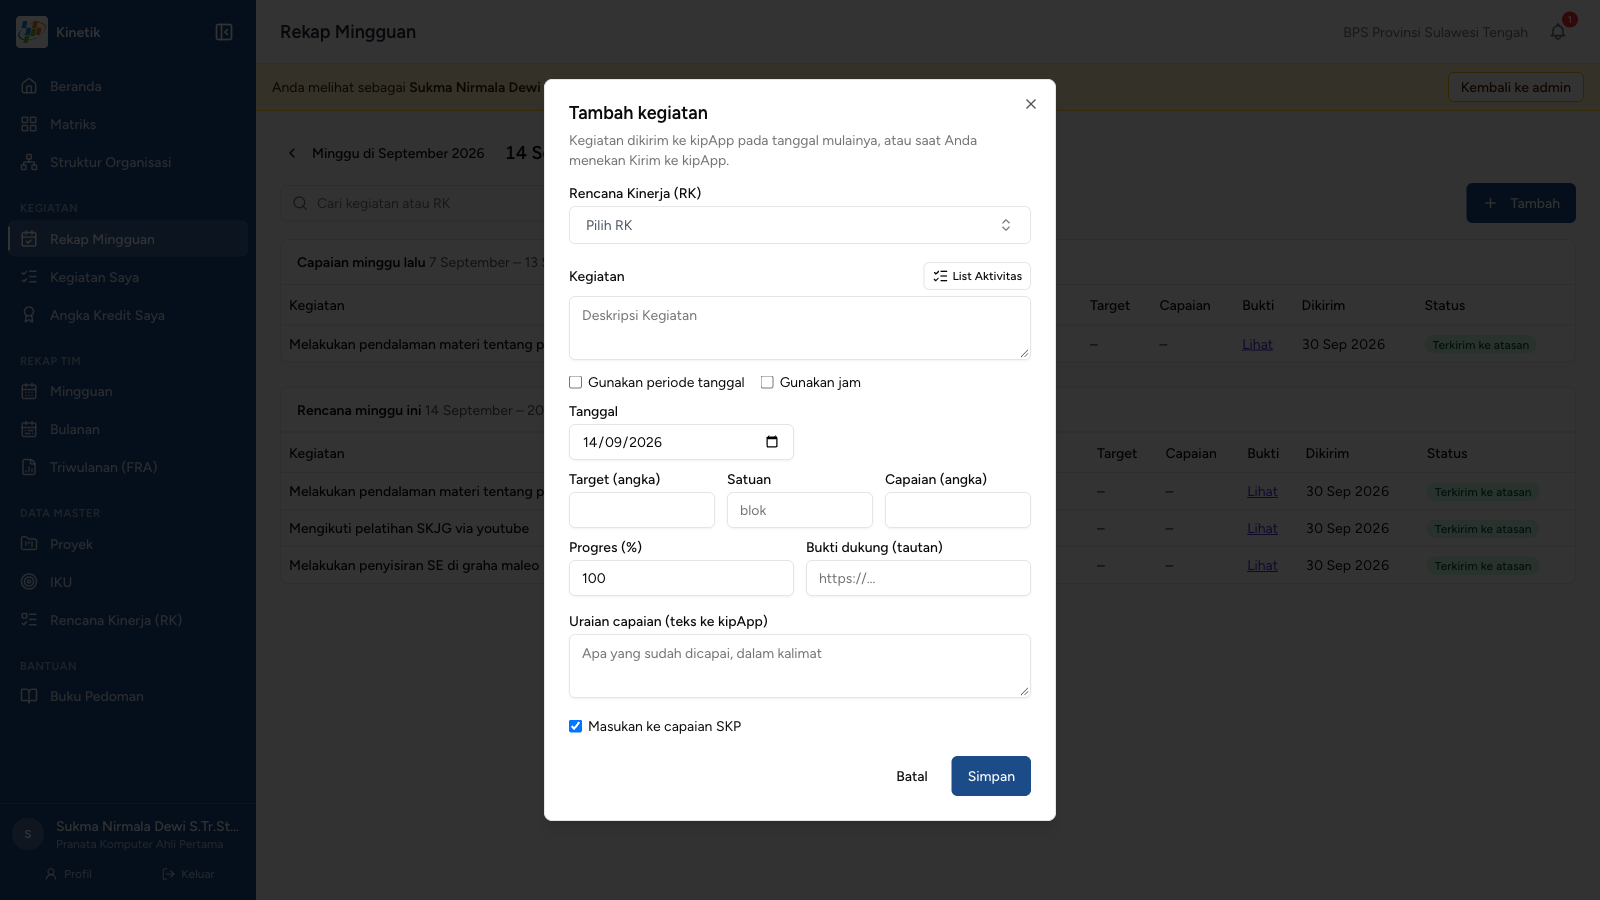
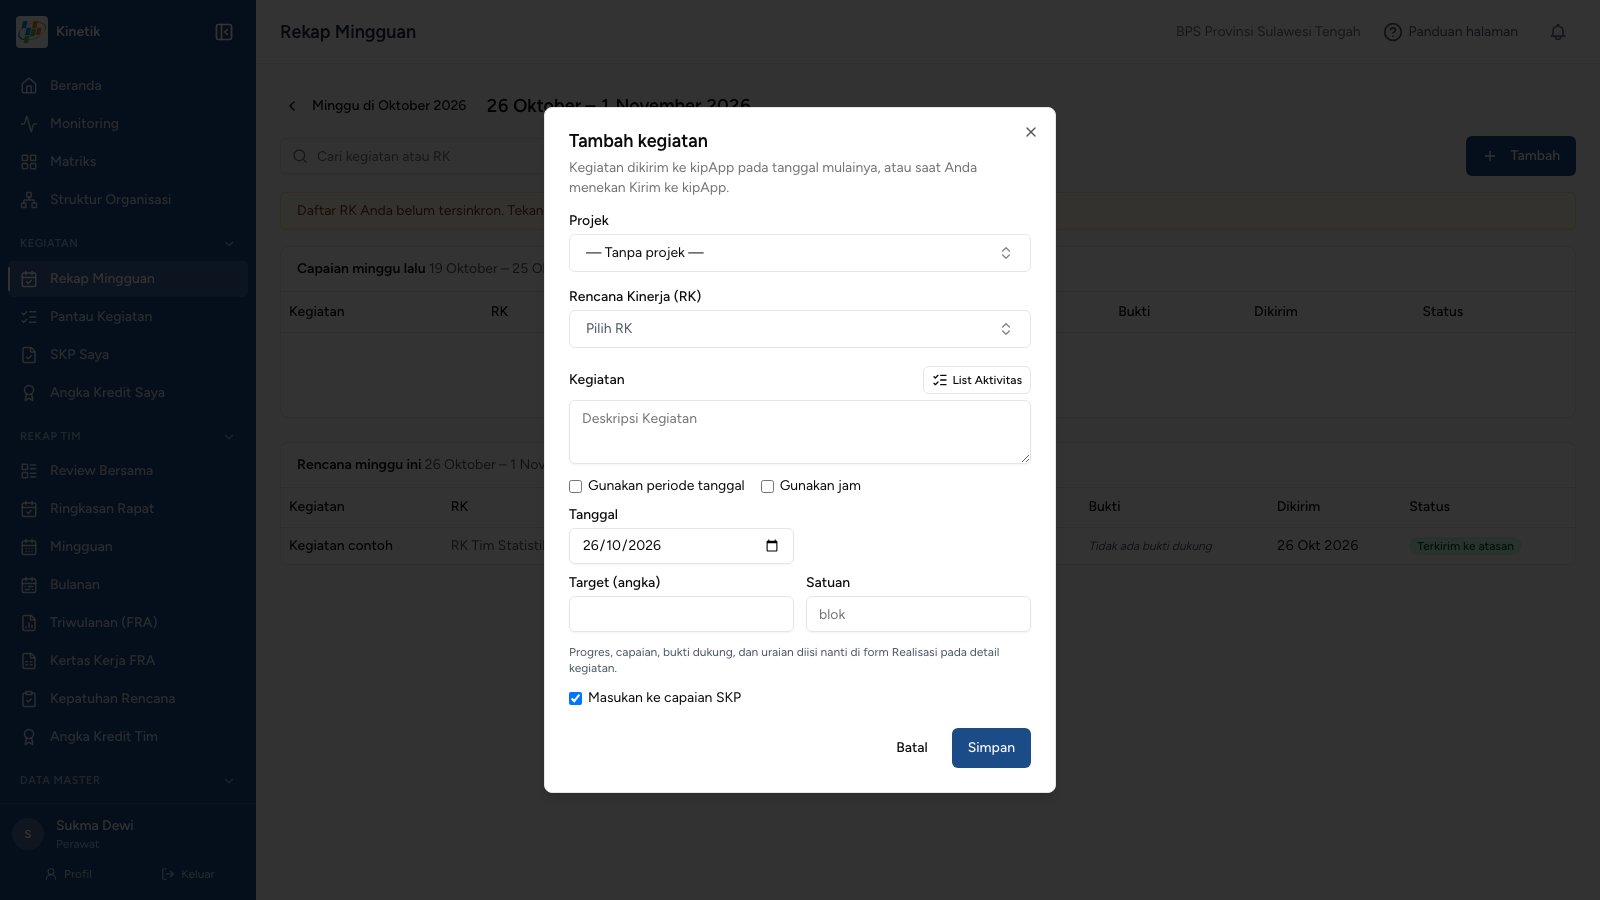
Update add-kegiatan and Realisasi slides for the new forms

diff --git a/components/shotData.ts b/components/shotData.ts
@@ -21,45 +21,17 @@ export const shots: Record<string, ShotDef> = {
     },
     "member-add": {
         "src": "/shots/member-add.png",
+        "url": "kinetik.bpssulteng.id (contoh data)",
         "steps": [
-            {
-                "n": 1,
-                "x": 34,
-                "y": 24.5,
-                "text": "Pilih RK dari daftar RK anggota."
-            },
-            {
-                "n": 2,
-                "x": 34,
-                "y": 30.7,
-                "text": "Tulis kegiatan, atau ambil dari List Aktivitas."
-            },
-            {
-                "n": 3,
-                "x": 34,
-                "y": 49,
-                "text": "Tanggal di masa depan boleh diisi. Di form kipApp, ini ditolak."
-            },
-            {
-                "n": 4,
-                "x": 34,
-                "y": 54.5,
-                "text": "Target, satuan, dan capaian berupa angka."
-            },
-            {
-                "n": 5,
-                "x": 49.2,
-                "y": 63,
-                "text": "Bukti dukung berupa link."
-            },
-            {
-                "n": 6,
-                "x": 58.3,
-                "y": 86,
-                "text": "Simpan. Kinetik mengirimnya ke kipApp pada tanggal mulai, otomatis atau lewat tombol Kirim ke kipApp."
-            }
+            {"n": 1, "x": 35.5, "y": 28.5, "text": "Pilih projek dulu. RK yang tampil hanya RK projek itu."},
+            {"n": 2, "x": 35.5, "y": 36.5, "text": "Pilih RK. Setelah dipilih, projek terkunci; tombol Ganti RK membukanya lagi."},
+            {"n": 3, "x": 35.5, "y": 48, "text": "Tulis kegiatan, atau ambil dari List Aktivitas."},
+            {"n": 4, "x": 35.5, "y": 58, "text": "Tanggal di masa depan boleh diisi. Di form kipApp, ini ditolak."},
+            {"n": 5, "x": 35.5, "y": 68, "text": "Target dan satuan berupa angka. Progres, capaian dan bukti diisi nanti di form Realisasi."},
+            {"n": 6, "x": 62, "y": 83, "text": "Simpan. Kinetik mengirimnya ke kipApp pada tanggal mulai, otomatis atau lewat tombol Kirim ke kipApp."}
         ]
     },
+
     "pj-week-detail": {
         "src": "/shots/pj-week-detail.png",
         "steps": [
@@ -295,51 +267,18 @@ export const shots: Record<string, ShotDef> = {
     },
     "member-capaian": {
         "src": "/shots/member-capaian.png",
+        "url": "kinetik.bpssulteng.id (contoh data)",
         "steps": [
-            {
-                "n": 1,
-                "x": 34.2,
-                "y": 29.7,
-                "text": "Detail kegiatan: tanggal, target, progres, dan status."
-            },
-            {
-                "n": 2,
-                "x": 34.2,
-                "y": 49.2,
-                "text": "Capaian berupa angka, supaya bisa dijumlahkan."
-            },
-            {
-                "n": 3,
-                "x": 49,
-                "y": 49.2,
-                "text": "Progres (%) diperbarui sampai 100."
-            },
-            {
-                "n": 4,
-                "x": 34.2,
-                "y": 57.4,
-                "text": "Uraian capaian: teks yang ikut dikirim ke kipApp."
-            },
-            {
-                "n": 5,
-                "x": 34.2,
-                "y": 68.1,
-                "text": "Bukti dukung berupa link."
-            },
-            {
-                "n": 6,
-                "x": 47,
-                "y": 78.2,
-                "text": "Copy kegiatan: pakai kegiatan ini sebagai dasar kegiatan baru."
-            },
-            {
-                "n": 7,
-                "x": 54.9,
-                "y": 78.2,
-                "text": "Simpan capaian."
-            }
+            {"n": 1, "x": 35.5, "y": 22, "text": "Detail kegiatan: tanggal, target, capaian, dan status."},
+            {"n": 2, "x": 35.5, "y": 50.5, "text": "Realisasi: capaian berupa angka, supaya bisa dijumlahkan."},
+            {"n": 3, "x": 51, "y": 50.5, "text": "Progres (%) terhitung otomatis dari capaian dibagi target. Bisa diubah."},
+            {"n": 4, "x": 35.5, "y": 61, "text": "Bukti dukung berupa link."},
+            {"n": 5, "x": 35.5, "y": 71, "text": "Uraian: teks yang ikut dikirim ke kipApp."},
+            {"n": 6, "x": 50, "y": 79, "text": "Salin kegiatan: pakai kegiatan ini sebagai dasar kegiatan baru."},
+            {"n": 7, "x": 60, "y": 79, "text": "Simpan realisasi."}
         ]
     },
+
     "pj-months": {
         "src": "/shots/pj-weekly.png",
         "steps": [

diff --git a/pages/17-anggota-6-6-isi-capaian.md b/pages/17-anggota-6-6-isi-capaian.md
@@ -1,16 +1,16 @@
-# Anggota (5/5): isi capaian
+# Anggota (5/5): form Realisasi
 
 <span v-click="1"></span><span v-click="2"></span><span v-click="3"></span><span v-click="4"></span><span v-click="5"></span><span v-click="6"></span><span v-click="7"></span>
 
 <Shot id="member-capaian" :clicks="$clicks" />
 
 <!--
-Ini detail satu kegiatan. Di sinilah anggota mengisi capaian dan memperbarui progres.
-[click] Pertama, di bagian atas ada detail kegiatan: tanggal, target, progres, dan statusnya.
+Ini detail satu kegiatan. Di bagian bawah ada form Realisasi, tempat anggota mengisi capaian.
+[click] Pertama, di bagian atas ada detail kegiatan: tanggal, target, capaian, dan statusnya.
 [click] Kedua, capaian diisi berupa angka, supaya bisa dijumlahkan di rekap.
-[click] Ketiga, progres dalam persen. Diperbarui sampai seratus kalau kegiatannya selesai.
-[click] Keempat, uraian capaian. Teks ini yang ikut dikirim ke kipApp.
-[click] Kelima, bukti dukung berupa link.
+[click] Ketiga, progres dalam persen. Terhitung sendiri dari capaian dibagi target, dan masih bisa diubah.
+[click] Keempat, bukti dukung berupa link.
+[click] Kelima, uraian. Teks ini yang ikut dikirim ke kipApp.
 [click] Keenam, Salin kegiatan, untuk memakai kegiatan ini sebagai dasar kegiatan baru.
-[click] Ketujuh, simpan capaian. Setelah itu kegiatan siap dikirim ke atasan.
+[click] Ketujuh, simpan realisasi. Setelah itu kegiatan siap dikirim ke atasan.
 -->

diff --git a/pages/15-anggota-4-6-tambah-kegiatan-atau-rencana.md b/pages/15-anggota-4-6-tambah-kegiatan-atau-rencana.md
@@ -6,10 +6,10 @@
 
 <!--
 Ini form untuk menambah kegiatan atau rencana. Bentuknya sengaja dibuat mirip form kipApp, supaya anggota tidak perlu belajar ulang.
-[click] Pertama, anggota memilih RK dari daftar RK miliknya.
-[click] Kedua, menulis kegiatan, atau mengambilnya dari List Aktivitas.
-[click] Ketiga, ini yang penting: tanggal di masa depan boleh diisi. Di form kipApp, ini ditolak, jadi di sinilah perencanaan jadi mungkin.
-[click] Keempat, target, satuan, dan capaian berupa angka, jadi bisa dijumlahkan.
-[click] Kelima, bukti dukung berupa link.
+[click] Pertama, anggota memilih projek. Daftar RK langsung menyempit ke RK projek itu.
+[click] Kedua, memilih RK. Setelah dipilih, projek terkunci supaya tidak salah pasangan. Tombol Ganti RK membukanya lagi.
+[click] Ketiga, menulis kegiatan, atau mengambilnya dari List Aktivitas.
+[click] Keempat, ini yang penting: tanggal di masa depan boleh diisi. Di form kipApp, ini ditolak, jadi di sinilah perencanaan jadi mungkin.
+[click] Kelima, target dan satuan berupa angka, jadi bisa dijumlahkan. Progres, capaian dan bukti dukung tidak diisi di sini. Semuanya nanti di form Realisasi.
 [click] Keenam, simpan. Setelah itu Kinetik mengirimnya ke kipApp pada tanggal mulai, otomatis. Alurnya ada di slide Kinetik ke kipApp.
 -->
